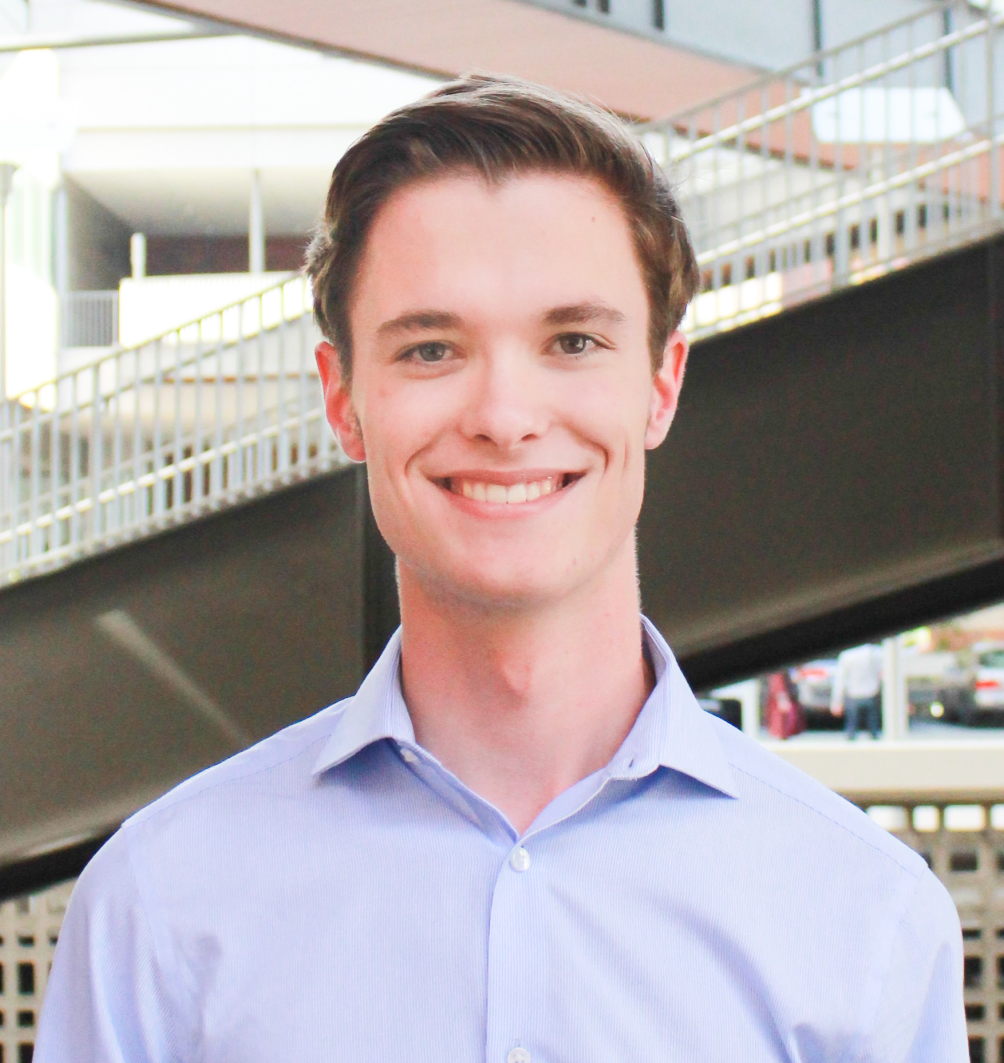
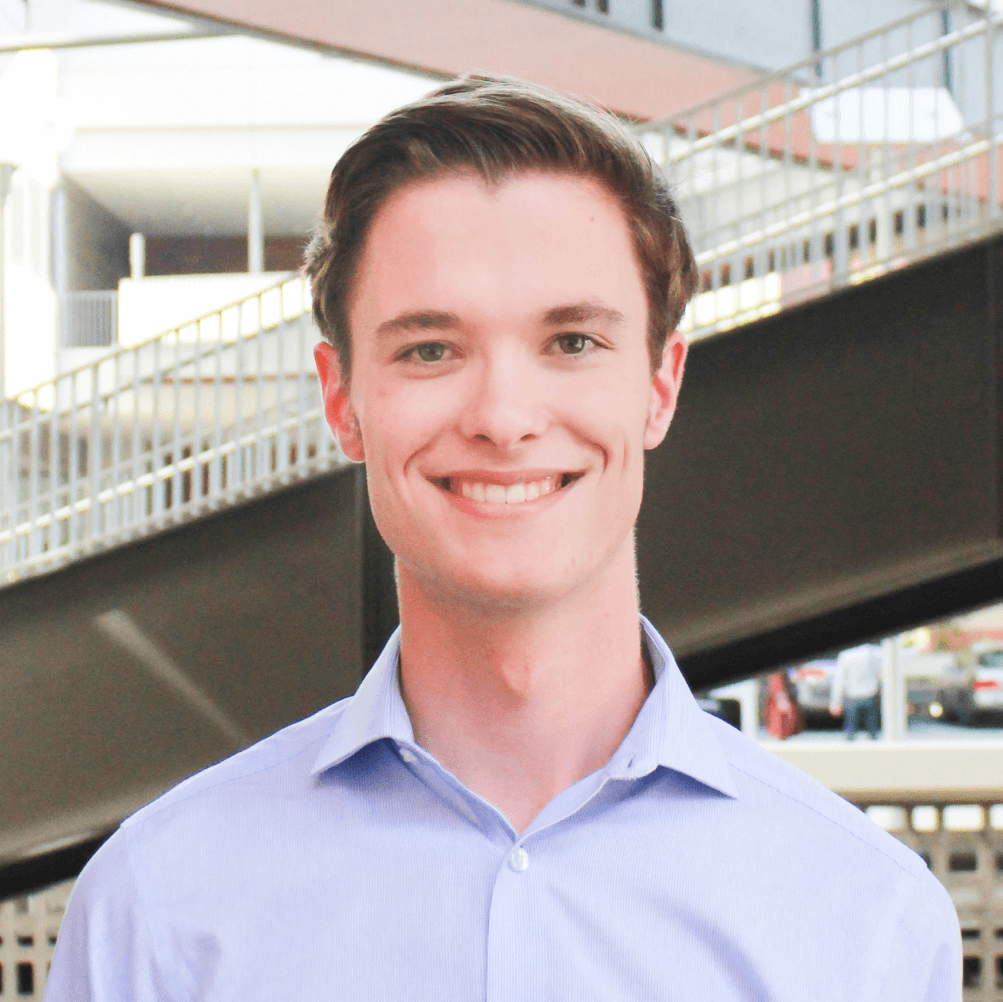
Update officer photos

diff --git a/public/css/officers.css b/public/css/officers.css
@@ -25,6 +25,10 @@ h1 {
   position: relative;
 }
 
+.officer:hover {
+  cursor: pointer;
+}
+
 .officer p {
   text-align: center;
 }
@@ -42,7 +46,7 @@ h1 {
   width: 150px;
   height: 10px;
   position: absolute;
-  top: 190px;
+  top: 179px;
   background-color: rgba(0, 98, 155, 0.9);
 }
 

diff --git a/views/officers.php b/views/officers.php
@@ -8,7 +8,7 @@
                 "position" => "President",
                 "major" => "CSE",
                 "class" => "3rd Year",
-                "picture" => $IMAGE_PATH . "alex.png",
+                "picture" => $IMAGE_PATH . "bryan.jpg",
                 "description" => "Hello hello, I'm Bryan! As the IEEE President, I'm responsible for acting as the face of the org and for facilitating the overall vision and direction of our wonderful officer board. I was also previously an OPS Lead and GB Lead. I'm open to talking about pretty much anything, including navigating life at UCLA, the best food spots, internships, coding, and video games. Feel free to reach out, I won't bite! :)",
                 "link" => "https://calendly.com/bryanwong"
             ),
@@ -16,7 +16,7 @@
                 "position" => "Internal Vice President",
                 "major" => "CSE",
                 "class" => "4th Year",
-                "picture" => $IMAGE_PATH . "erica.png",
+                "picture" => $IMAGE_PATH . "kathy.jpeg",
                 "description" => "Hi, I'm Kathy! As IVP, I'm responsible for handling socials, alumni relations, and the General Board program. Feel free to schedule a meeting with me to discuss classes at UCLA, switching majors, internships & recruiting advice, my experiences at IEEE, UCLA housing/apartment life, what CSE is like, or just chat!",
                 "link" => "https://calendly.com/kathydaniels"
             ),
@@ -24,7 +24,7 @@
                 "position" => "External Vice President",
                 "major" => "CS",
                 "class" => "3rd Year",
-                "picture" => $IMAGE_PATH . "michellel.png",
+                "picture" => $IMAGE_PATH . "albert.jpg",
                 "description" => "Hello there, I'm Albert! As the External Vice President of IEEE, my role is mainly comprised of organizing IDEA Hacks with my fellow EVP Jay. Feel free to talk to me about anything, including my IEEE experience, CS courses, food, or anything about UCLA!",
                 "link" => "https://calendly.com/alberthan"
             ),
@@ -32,7 +32,7 @@
                 "position" => "External Vice President",
                 "major" => "CSE",
                 "class" => "3rd Year",
-                "picture" => $IMAGE_PATH . "michellet.png",
+                "picture" => $IMAGE_PATH . "jay.jpg",
                 "description" => "Hello, my name is Jay. My main role as External Vice President is to work with Albert to direct and coordinate IDEA Hacks. Please feel free to reach out to me for things like CSE major, school life, IEEE, or any other things about UCLA.",
                 "link" => "https://calendly.com/jayparkk"
             ),
@@ -43,7 +43,7 @@
                 "position" => "Treasurer",
                 "major" => "CE",
                 "class" => "4th Year",
-                "picture" => $IMAGE_PATH . "justin.png",
+                "picture" => $IMAGE_PATH . "erica.png",
                 "description" => "What's up, my name is Erica and as Treasurer, I handle all the financials for IEEE. I was also the previous IVP and Secretary, so feel free to ask me about that too! Let me know if you would like advice on CE classes, IEEE as a whole, internships, anime, music, or just about life in general.",
                 "link" => "https://calendly.com/ericaxie"
             ),
@@ -51,7 +51,7 @@
                 "position" => "Corporate Relations",
                 "major" => "CE",
                 "class" => "2nd Year",
-                "picture" => $IMAGE_PATH . "roselyn.png",
+                "picture" => $IMAGE_PATH . "pranav.jpg",
                 "description" => "Hello, my name is Pranav and I am the Corporate Relations Officer this year for IEEE! As CRO, I manage business-to-organization communication as well as organize company infosessions and workshops to provide networking and technical development opportunities for IEEE members! In addition, I run the Corporate Committee for IDEA Hacks, which fundraises money that will be used to set up and run the event! Feel free to reach out to me if you have any questions about transitioning to college, joining research labs, the Summer Undergraduate Research Program, advice on classes, or just want to talk about UCLA Athletics/NBA!",
                 "link" => "https://calendly.com/pranavsankars"
             ),
@@ -59,7 +59,7 @@
                 "position" => "Secretary",
                 "major" => "EE",
                 "class" => "2nd Year",
-                "picture" => $IMAGE_PATH . "jay.png",
+                "picture" => $IMAGE_PATH . "achinthya.jpeg",
                 "description" => "Hey everyone, I'm Achinthya! As Secretary I handle club communications through our weekly newsletters and Instagram along with alumni relations through alumni newsletters and our alumni Facebook group. Feel free to reach out to me with any questions about freshman year at UCLA, the Summer Undergraduate Research program, frisbee ;), or any deep convos you'd like to start!",
                 "link" => "https://calendly.com/achinthyapoduval"
             ),
@@ -67,7 +67,7 @@
                 "position" => "Publicity",
                 "major" => "EE",
                 "class" => "2nd Year",
-                "picture" => $IMAGE_PATH . "albert.png",
+                "picture" => $IMAGE_PATH . "solaine.jpeg",
                 "description" => "Hi guys!! I'm Solaine :)) As Publicity I handle everything design/marketing/brand related! Hmu if you want to talk about first year classes, art/writing, photoshoots/photography, baking, music, martial arts, or movies/tv shows (dc comics <3)!! I love meeting new people so just hmu for a convo about anything :))",
                 "link" => "https://calendly.com/solaine"
             ),
@@ -75,7 +75,7 @@
                 "position" => "Events Coordinator",
                 "major" => "EE",
                 "class" => "2nd Year",
-                "picture" => $IMAGE_PATH . "fred.png",
+                "picture" => $IMAGE_PATH . "grace.jpg",
                 "description" => "Hey guys! I'm Grace. As Events Coordinator, I handle keeping our calendars organized for our members and officers, and putting together socials! Shoot me a message if you have any questions about classes, IEEE, school/life balance, job searches, baking recipes (:P) and mental health. I'm here to help!",
                 "link" => "https://calendly.com/glm1550"
             )
@@ -86,7 +86,7 @@
                 "position" => "OPS Lead",
                 "major" => "EE",
                 "class" => "3rd Year",
-                "picture" => $IMAGE_PATH . "bryan.png",
+                "picture" => $IMAGE_PATH . "ryeder.jpg",
                 "description" => "Hello I'm Ryeder, I work with Taylor to develop lectures and projects for students new electric/computer engineering. Feel free to reach out if you have any questions about projects you can do, choosing classes, or really anything else you'd like to talk about.",
                 "link" => "https://calendly.com/ryedergeyer"
             ),
@@ -94,7 +94,7 @@
                 "position" => "OPS Lead",
                 "major" => "EE",
                 "class" => "2nd Year",
-                "picture" => $IMAGE_PATH . "jackie.png",
+                "picture" => $IMAGE_PATH . "taylor.jpeg",
                 "description" => "Eyy I’m Taylor, your OPS co-lead! I work with Ryeder to prepare lectures, projects, and socials for OPS. Feel free to reach out to me about anything: classes, bplate salmon, covel tater tots, Summer Undergraduate Research Program, boelter, classical music, coffee, and/or hot pipin' tea ;) (I'm awake at weird hours too)",
                 "link" => "https://calendly.com/taylorchung"
             ),
@@ -102,7 +102,7 @@
                 "position" => "Micromouse Lead",
                 "major" => "EE",
                 "class" => "2nd Year",
-                "picture" => $IMAGE_PATH . "caleb.png",
+                "picture" => $IMAGE_PATH . "bradley.jpeg",
                 "description" => "Hi I'm Bradley! I'm a micromouse co-lead so it's my job to help raise a healthy mischief of mice (I looked it up, that's the technical term)! I'm happy to talk about how to get started on personal projects, my internship experience, and just life in general!",
                 "link" => "https://calendly.com/bradleyschulz"
             ),
@@ -110,7 +110,7 @@
                 "position" => "Micromouse Lead",
                 "major" => "EE",
                 "class" => "2nd Year",
-                "picture" => $IMAGE_PATH . "chester.png",
+                "picture" => $IMAGE_PATH . "tyler.jpg",
                 "description" => "I am one of this year's two *incredible* Micromouse leads! I work with Bradley on everything Micromouse. I am happy to talk about epic personal EE projects, how to make your mouse go zoom zoom, why Brazilian jiu-jitsu is the best martial art (change my mind), how to succeed as a freshman @ UCLA, electric guitar (especially if you are a Weezer fan), or about anything else I guess :)",
                 "link" => "https://calendly.com/tylerprice"
             ),
@@ -118,7 +118,7 @@
                 "position" => "Aircopter Lead",
                 "major" => "EE",
                 "class" => "3rd Year",
-                "picture" => $IMAGE_PATH . "zac.png",
+                "picture" => $IMAGE_PATH . "aaron.jpg",
                 "description" => "Hello I'm Aaron; I'm an AP co-lead this year, so I'm half of the body responsible for creating (dys)functional quadcopters. I'm glad to talk about practically anything, from my internships, sports, video games, anime, music, tv shows, and beep beep boop stuff.",
                 "link" => "https://calendly.com/aaronkuo"
             ),
@@ -126,7 +126,7 @@
                 "position" => "Aircopter Lead",
                 "major" => "EE",
                 "class" => "3rd Year",
-                "picture" => $IMAGE_PATH . "peter.png",
+                "picture" => $IMAGE_PATH . "eric.jpeg",
                 "description" => "Hey! I'm Eric and I'm an AP co-lead and I'm really excited to meet everyone! I'm in charge of getting all the AP kids through to building their quadcopters. I'd love to talk about anything really, I play video games and Aaron just got me to watch Your Lie in April. I love cooking but love eating more so if you live that simple life too then hit me up.",
                 "link" => "https://calendly.com/erictang728"
             ),
@@ -134,7 +134,7 @@
                 "position" => "DAV Lead",
                 "major" => "CE",
                 "class" => "3rd Year",
-                "picture" => $IMAGE_PATH . "zac.png",
+                "picture" => $IMAGE_PATH . "brandon.jpg",
                 "description" => "Howdy Y'all! I'm Brandon, one of your co-leads for DAV this year. I'm here to make sure that your experience as a DAV member, an IEEE member, and a student at UCLA is memorable and enjoyable...oh and I guess I have to teach you stuff too :0. Feel free to talk to me about anything: engineering, college, music, Rocket League, the meaning of life, you name it!",
                 "link" => "https://calendly.com/brandon-hlong-le"
             ),
@@ -142,7 +142,7 @@
                 "position" => "DAV Lead",
                 "major" => "EE",
                 "class" => "3rd Year",
-                "picture" => $IMAGE_PATH . "peter.png",
+                "picture" => $IMAGE_PATH . "davidk.jpg",
                 "description" => "Hey, I'm David, a DAV co-lead for this year. I'm in charge of piloting this new project and making sure it can launch as smoothly as possible. I'm available to talk just about anything, whether it's academic, or social, or video games, or real life stuff, or whatever else you might think of.",
                 "link" => "https://calendly.com/davidkao"
             ),
@@ -150,7 +150,7 @@
                 "position" => "Workshops Manager",
                 "major" => "CE",
                 "class" => "4th Year",
-                "picture" => $IMAGE_PATH . "evan.png",
+                "picture" => $IMAGE_PATH . "jackie.jpg",
                 "description" => "Hello there!! I am Jacqueline and one of the workshops managers along with Travis. We both help create workshops to supplement students' understanding of various EE concepts with hands on material.  Don't hesitate to hit me up if you want to talk about upcoming workshops, obtaining free material for classes, and navigating the UCLA life in general. If you just want someone to talk to as well I am here :)",
                 "link" => "https://calendly.com/jacqueline-lam902"
             ),
@@ -158,7 +158,7 @@
                 "position" => "Workshops Manager",
                 "major" => "EE",
                 "class" => "2nd Year",
-                "picture" => $IMAGE_PATH . "henry.png",
+                "picture" => $IMAGE_PATH . "travis.jpg",
                 "description" => "I'm Travis! My co-lead Jackie and I design presentations and projects to help students get knowledge in engineering fundamentals that they don't get from just taking classes. If you'd like to get some advice about succeeding as a freshman at UCLA, academically and otherwise, reach out for a talk!",
                 "link" => "https://calendly.com/tgraening"
             ),
@@ -166,7 +166,7 @@
                 "position" => "Projects and Lab Manager",
                 "major" => "CE",
                 "class" => "3rd Year",
-                "picture" => $IMAGE_PATH . "david.png",
+                "picture" => $IMAGE_PATH . "caleb.jpg",
                 "description" => "Hello! I'm Caleb and I am the Projects and Lab manager. I oversee the operation of IEEE's 4 projects and workshops (actually 5 projects now with David Baum's RF project), and I am also in charge of the IEEE lab space. Feel free to reach out to chat about any of the IEEE projects, UCLA academics/research, jobs, running/physical fitness, or how to make a killer omelette!",
                 "link" => "https://calendly.com/caleb-terrill"
             ),
@@ -174,7 +174,7 @@
                 "position" => "Projects and Lab Manager",
                 "major" => "CE",
                 "class" => "4th Year",
-                "picture" => $IMAGE_PATH . "kenny.png",
+                "picture" => $IMAGE_PATH . "chester.png",
                 "description" => "Hello! I'm a Project and Lab Manager with Caleb Terrill. We oversee IEEE's projects and lab logistics. Feel free to reach out and chat about literally anything. Some of my interests include food, spaceflight, procrastinating, tennis, and video games.",
                 "link" => "https://calendly.com/chesterh"
             ),
@@ -182,7 +182,7 @@
                 "position" => "Research and Development",
                 "major" => "EE",
                 "class" => "4th Year",
-                "picture" => $IMAGE_PATH . "natasha.png",
+                "picture" => $IMAGE_PATH . "davidb.png",
                 "description" => "Hi there, I'm David. As research and development lead, I facilitate the development of new IEEE projects and capabilities as well as keep our lab space up-to-date. Reach out to me if you want advice on EE classes/coursework/research, want to discuss wireless communications, or anything else.",
                 "link" => "https://calendly.com/david-baum"
             ),
@@ -190,7 +190,7 @@
                 "position" => "Webmaster",
                 "major" => "CE",
                 "class" => "3rd Year",
-                "picture" => $IMAGE_PATH . "kathy.png",
+                "picture" => $IMAGE_PATH . "robert.jpg",
                 "description" => "Hi! I'm Robert, IEEE's webmaster this year. I'm in charge of maintaining our club's websites, as well as making new ones and heading the IDEA Hacks website committee. I'm glad to talk about webdev, CS/STEM courses, my experience with IEEE, or anything else UCLA!",
                 "link" => "https://calendly.com/robertnperalta"
             )
